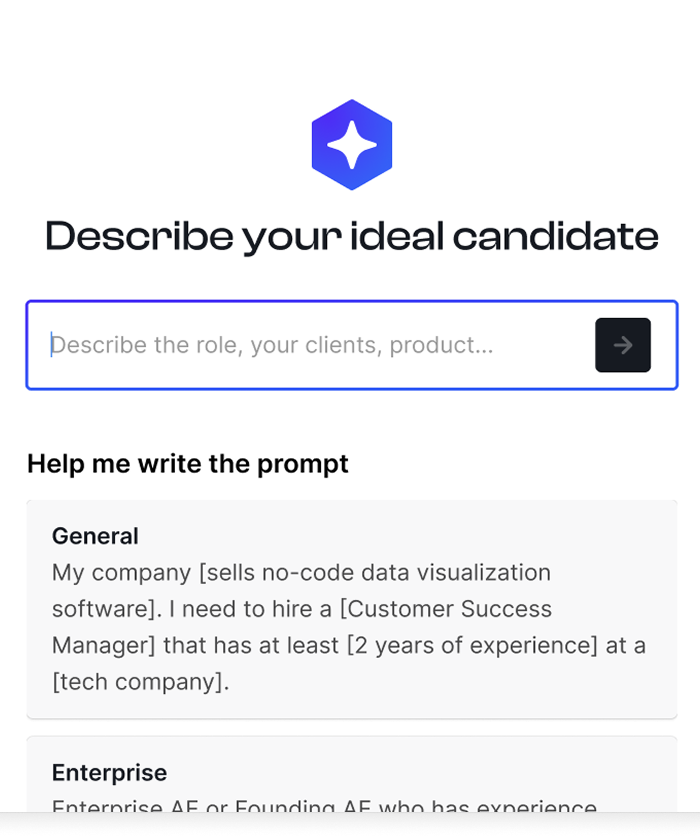
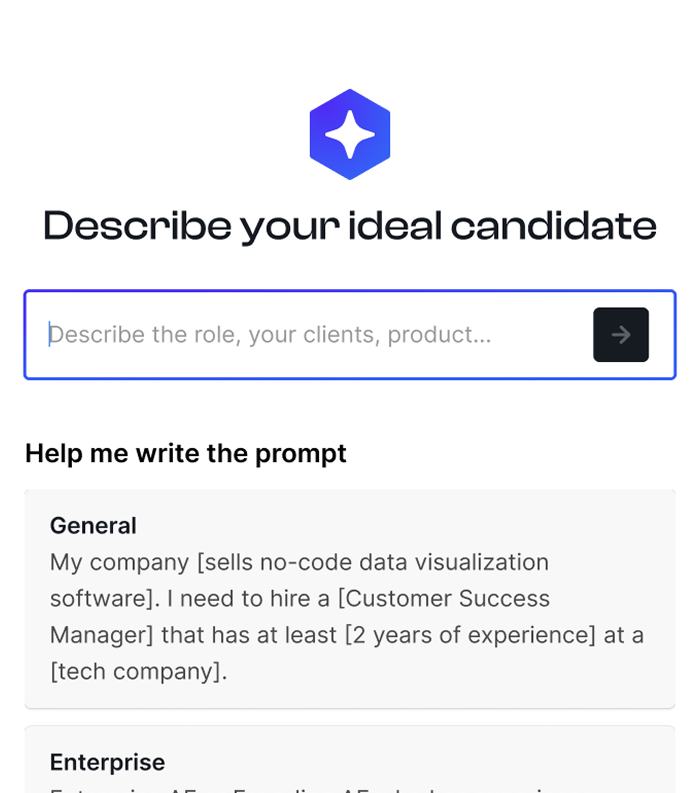
Fix Hunter case study: remove card highlight, re-crop Today's experience
- Trust & transparency card no longer gets a dark highlight — matches
  the other 5 Experience Vision cards (plain white bordered box).
- Re-cropped the "Today's experience" screenshot directly from the
  full-resolution source mockup (Assets/Hunter/Project #5.png) using
  precise pixel-boundary sampling, instead of the lower-resolution
  standalone asset — cleanly excludes a stray black bar artifact that
  isn't part of the actual card UI.

diff --git a/site/index.html b/site/index.html
@@ -974,9 +974,9 @@ With Bravado’s sales expertise and proprietary sales data built over 7 years, 
               <div style="font-size: 16px; font-weight: 700; color: rgb(16,18,20);">Emotional intelligence</div>
               <p style="font-size: 15px; line-height: 1.55; color: rgb(63,70,81); margin: 8px 0 0;">She understands the emotional context behind interactions for a more human, empathetic approach.</p>
             </div>
-            <div style="border: 1px solid rgb(57,65,77); border-radius: 8px; padding: 24px 26px; background: rgb(57,65,77);">
-              <div style="font-size: 16px; font-weight: 700; color: rgb(255,255,255);">Trust &amp; transparency</div>
-              <p style="font-size: 15px; line-height: 1.55; color: rgba(255,255,255,0.8); margin: 8px 0 0;">Hunter creates transparency in her processes, building confidence in her as your AI recruiter.</p>
+            <div style="border: 1px solid rgb(237,239,242); border-radius: 8px; padding: 24px 26px;">
+              <div style="font-size: 16px; font-weight: 700; color: rgb(16,18,20);">Trust &amp; transparency</div>
+              <p style="font-size: 15px; line-height: 1.55; color: rgb(63,70,81); margin: 8px 0 0;">Hunter creates transparency in her processes, building confidence in her as your AI recruiter.</p>
             </div>
           </div>
         </div>